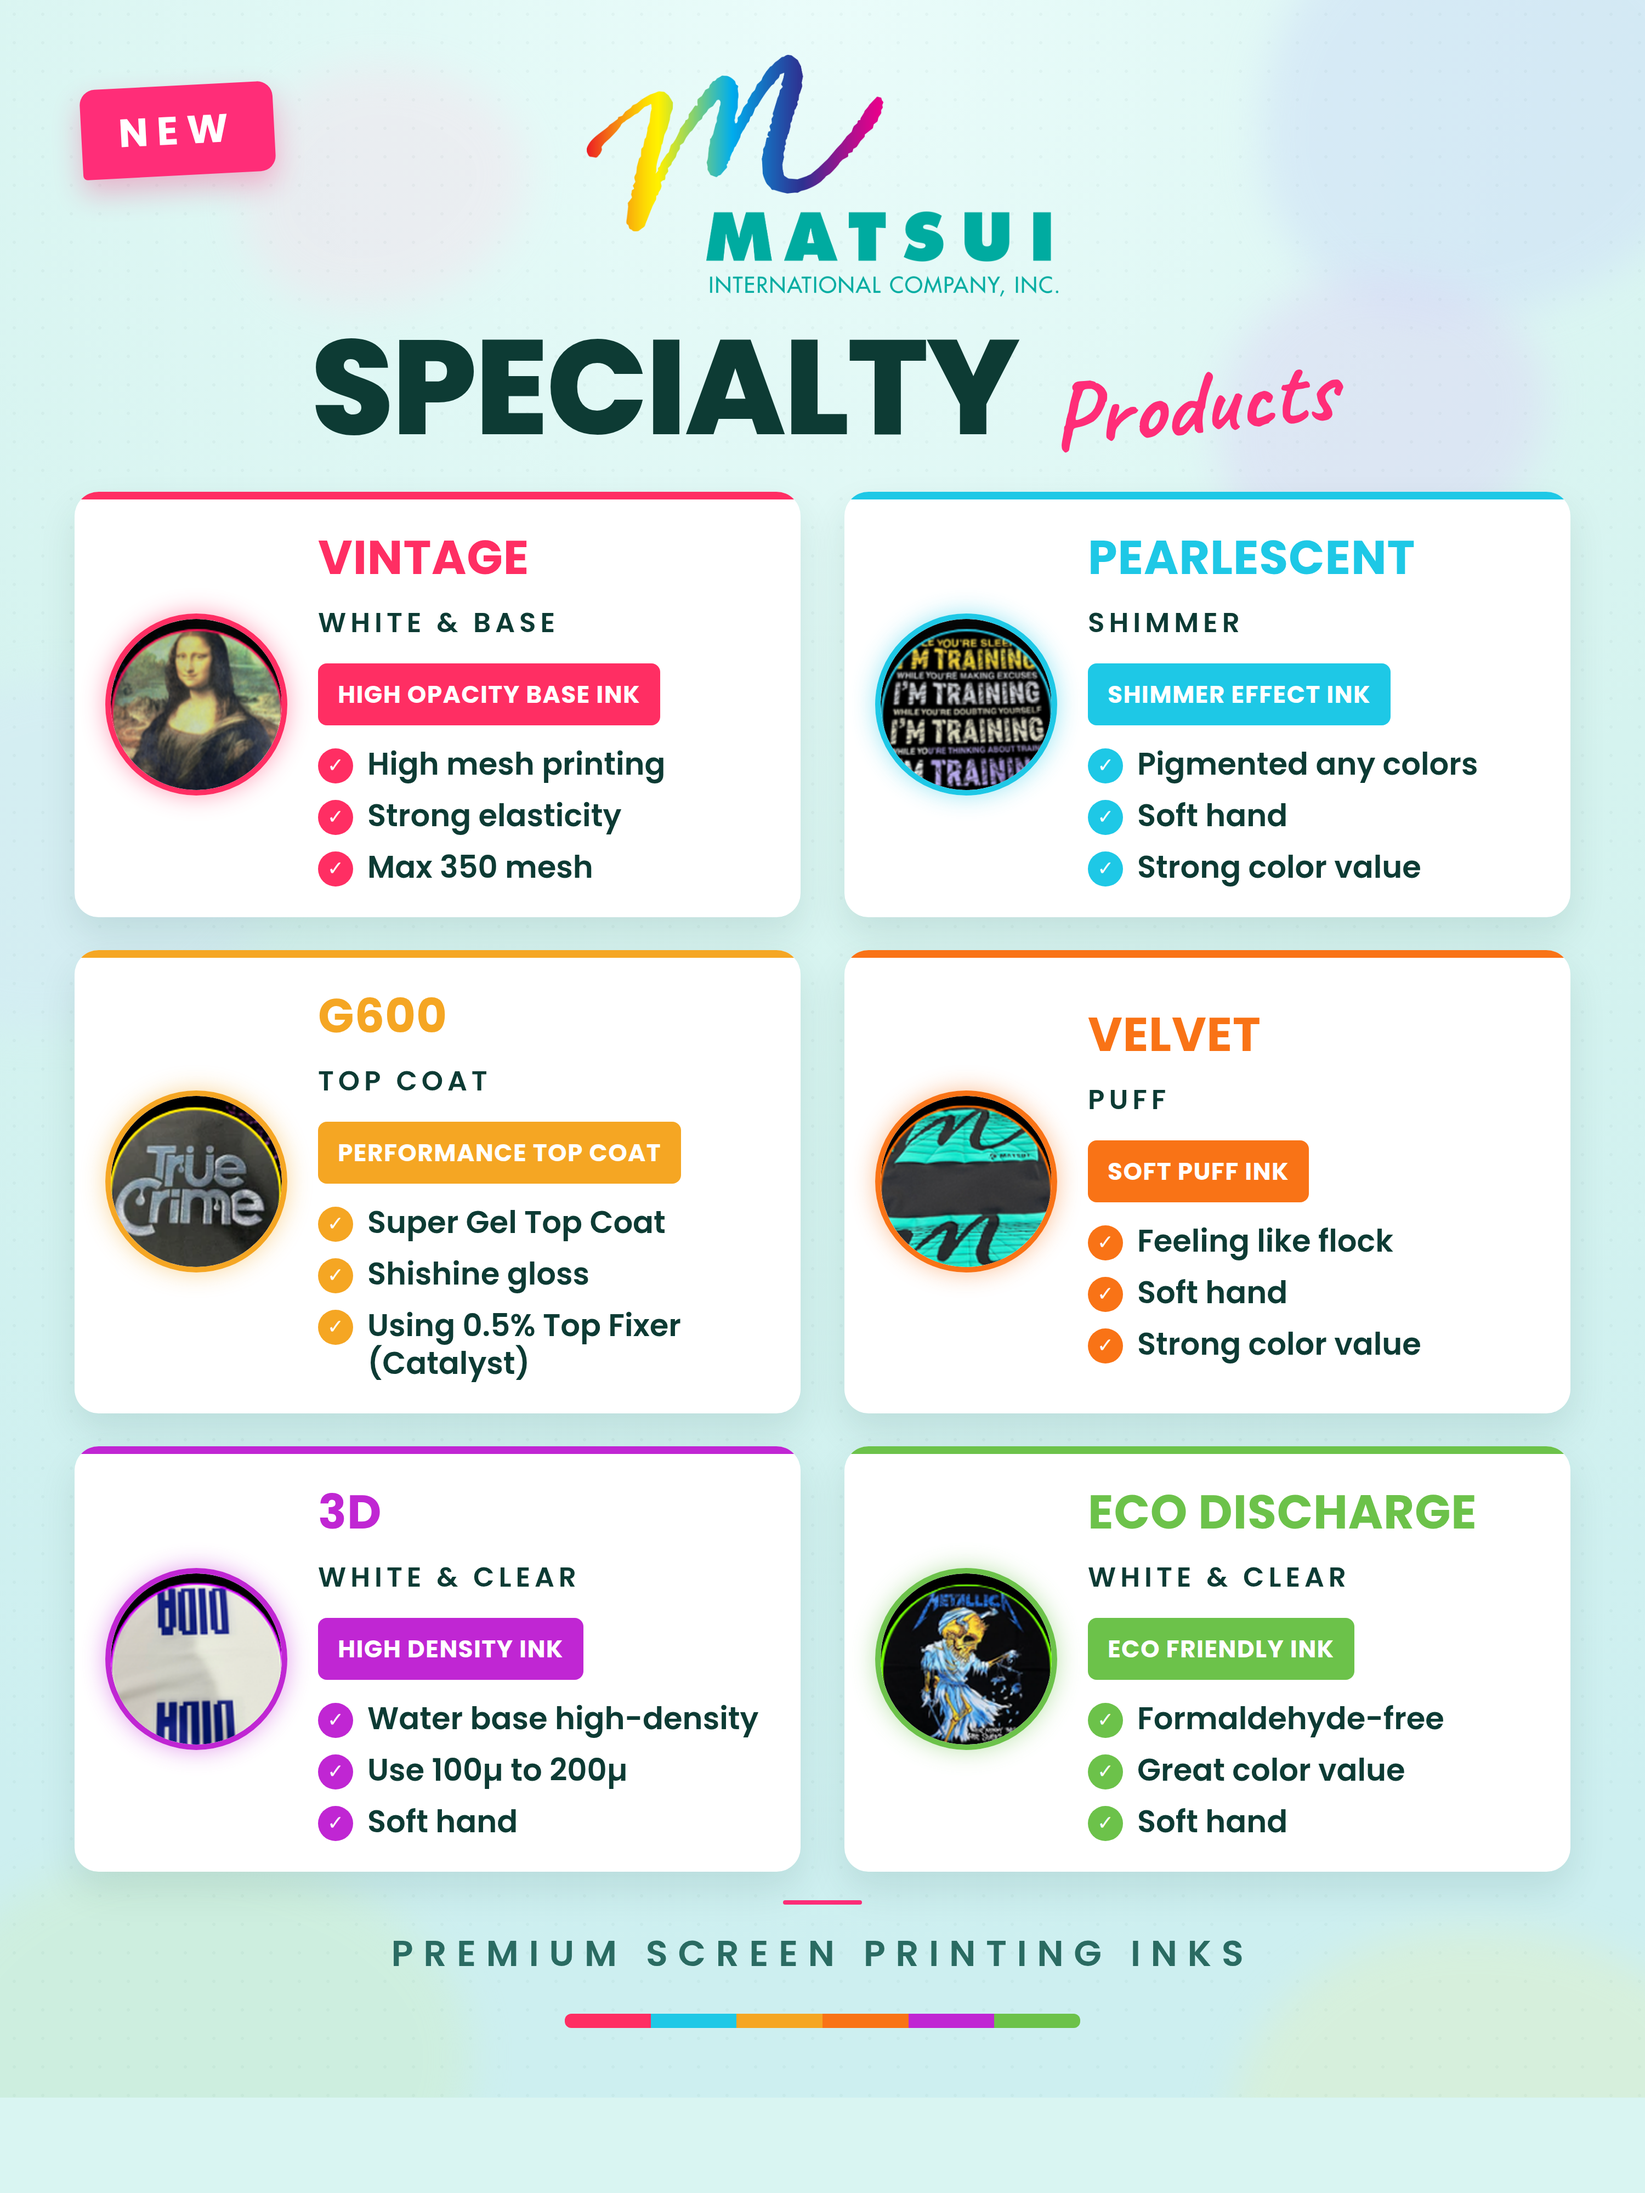
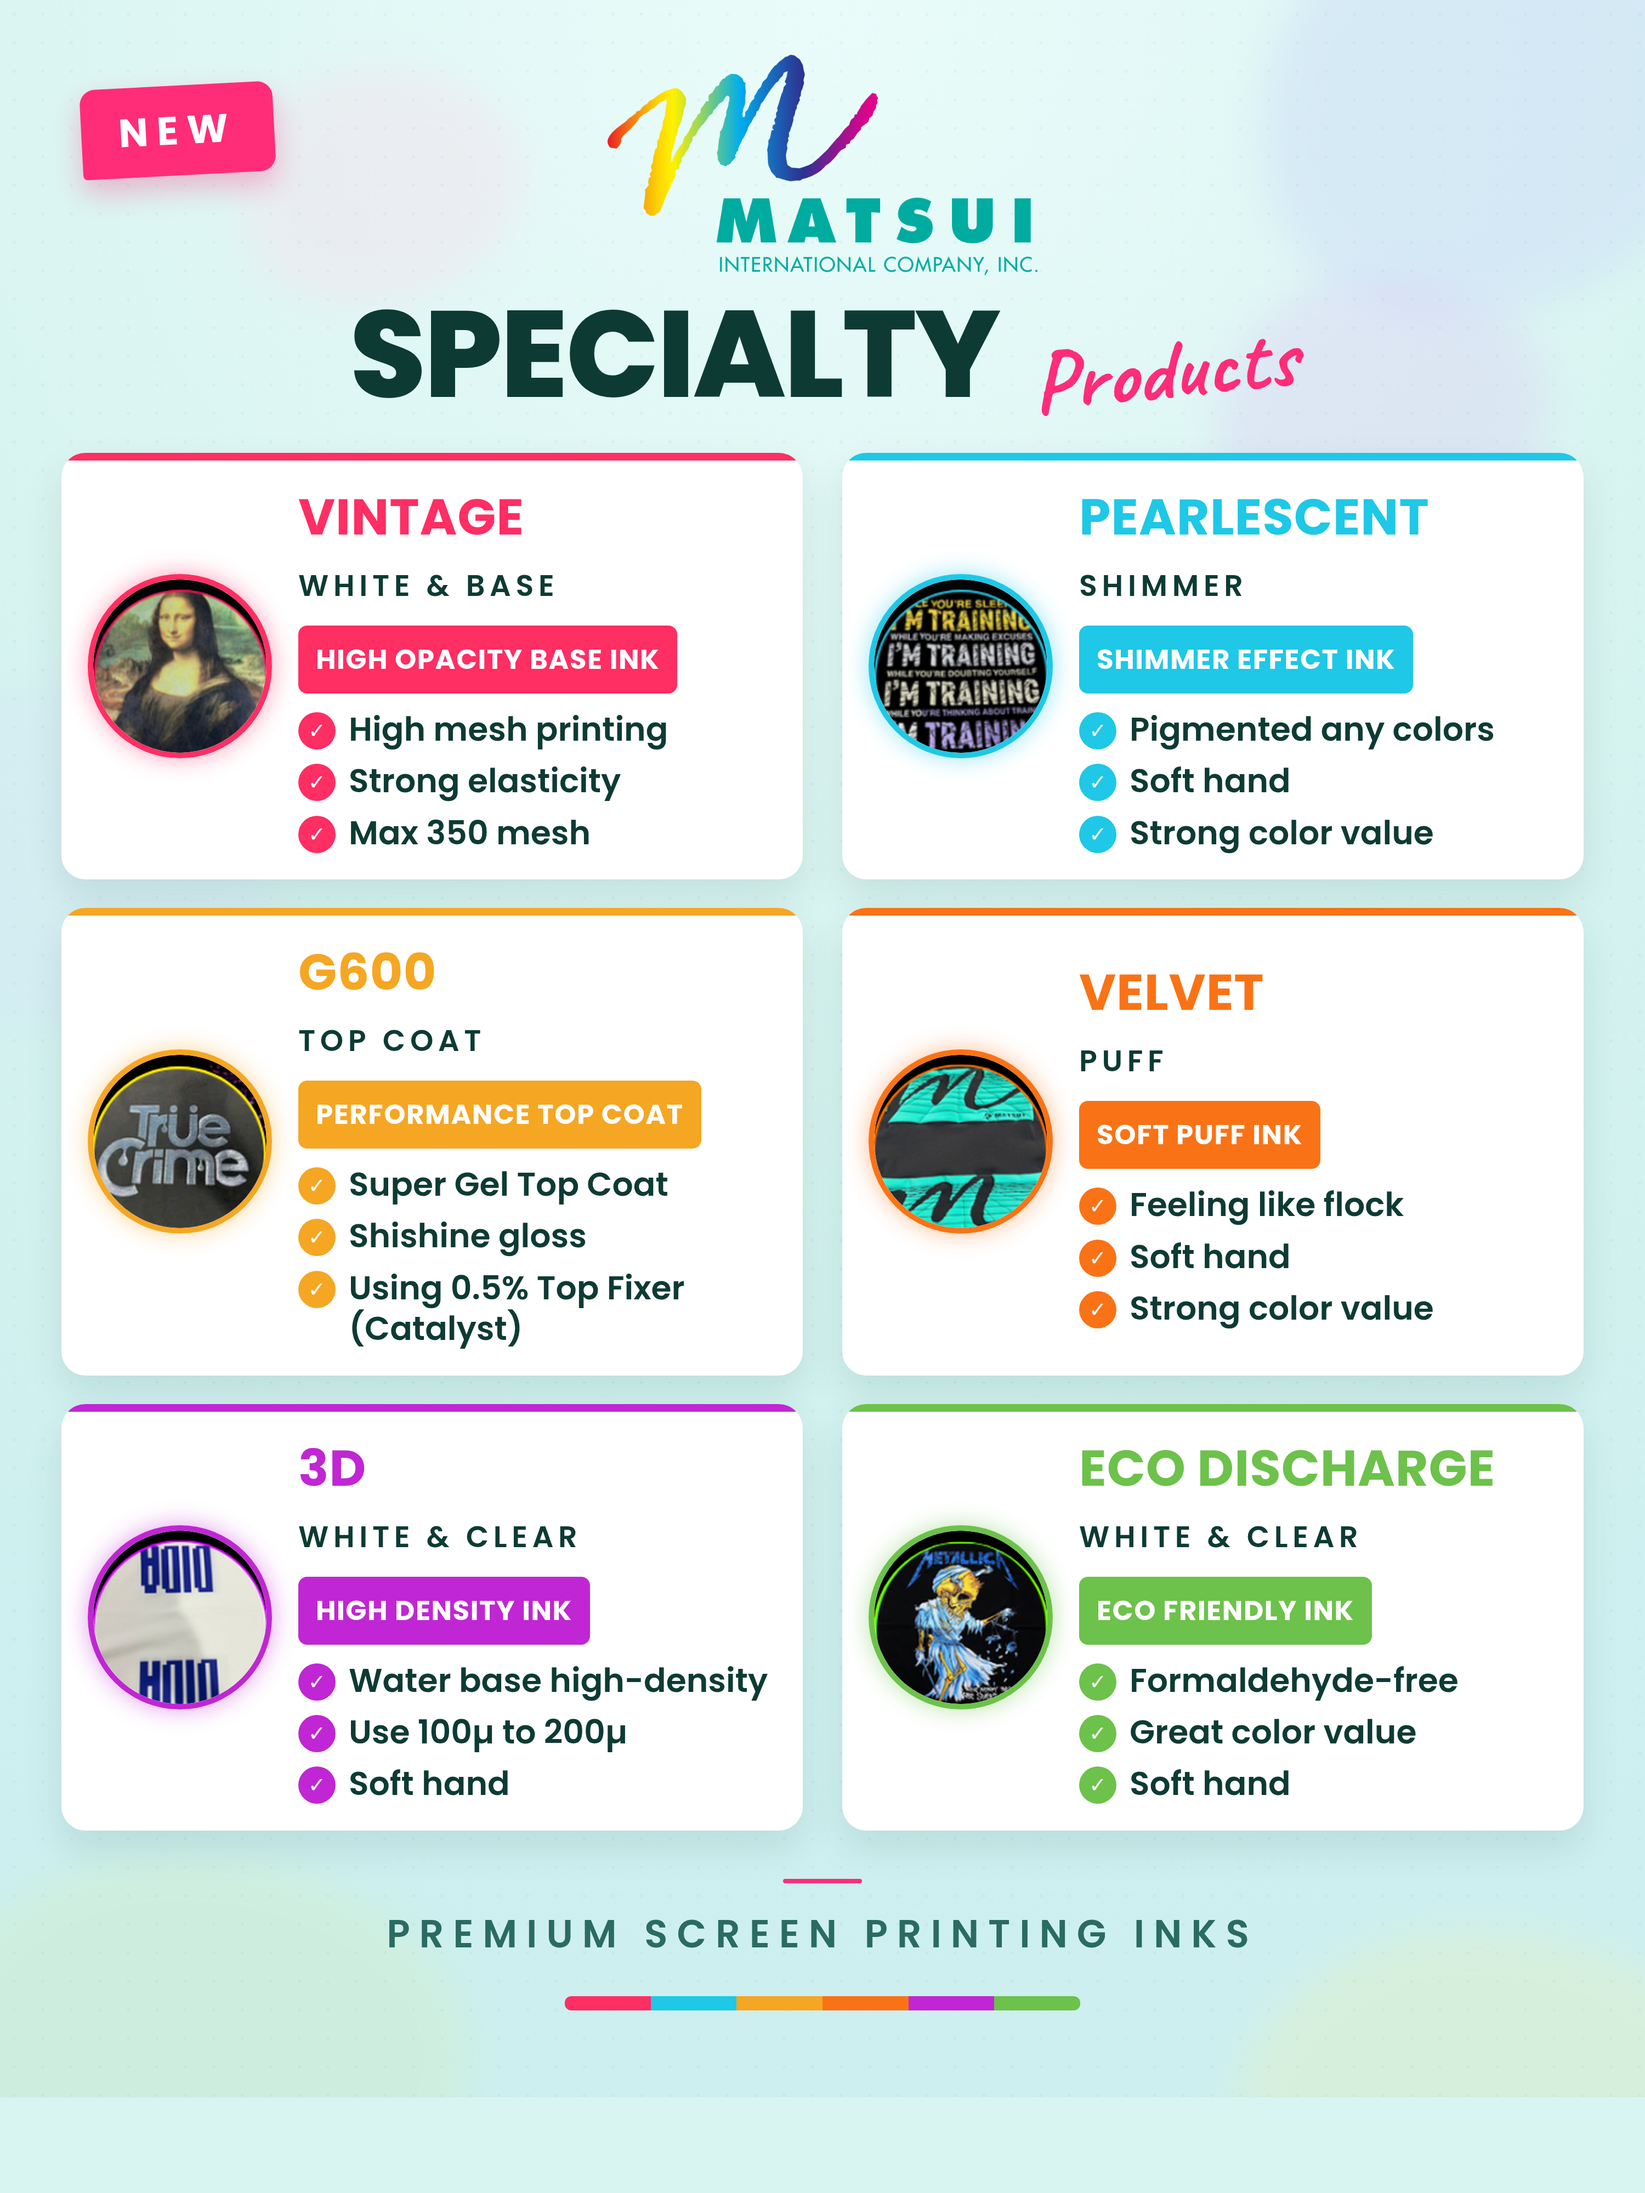
Increase the smallest poster text again
Third legibility pass, focused on the smallest elements — badges and
subtitles — with the headline and header spacing traded down to pay for it.

- Detail badges 22 -> 25px, subtitles 25 -> 27px, bullets 28 -> 30px,
  names 43 -> 46px, check icons 32 -> 34px
- Overview badges 25 -> 27px, subtitles 29 -> 31px, names 45 -> 47px,
  product circles 224 -> 232px
- Footer tagline 33 -> 35px; headline 122 -> 112px; cards widened via
  tighter grid padding and gaps so lines break less often

Claude-Session: https://claude.ai/code/session_01LZkeM3k2qiK2KzoJat9AUK

Changed region(s): [[0.031, 0.0312, 0.961, 0.9375]]

diff --git a/specialty-products-details.html b/specialty-products-details.html
@@ -7,46 +7,46 @@
 <style>
   .grid {
     grid-template-columns: repeat(2, 1fr);
-    gap: 30px 40px;
-    padding: 0 68px;
+    gap: 26px 36px;
+    padding: 0 56px;
     margin-top: 34px;
   }
   .card {
     display: flex;
     align-items: center;
-    gap: 28px;
-    padding: 28px 28px 28px 28px;
+    gap: 24px;
+    padding: 24px 24px 24px 24px;
   }
-  .shot { width: 166px; height: 166px; flex: 0 0 166px; }
-  .name { font-size: 43px; margin-bottom: 8px; }
-  .sub  { font-size: 25px; margin-bottom: 18px; }
-  .badge { font-size: 22px; padding: 12px 18px; letter-spacing: .03em; }
+  .shot { width: 168px; height: 168px; flex: 0 0 168px; }
+  .name { font-size: 46px; margin-bottom: 8px; }
+  .sub  { font-size: 27px; margin-bottom: 16px; }
+  .badge { font-size: 25px; padding: 12px 16px; letter-spacing: .03em; }
 
-  .points { margin-top: 18px; }
+  .points { margin-top: 14px; }
   .points li {
     list-style: none;
     display: flex;
     align-items: flex-start;
-    gap: 13px;
-    font-size: 28px;
+    gap: 12px;
+    font-size: 30px;
     font-weight: 600;
     line-height: 1.24;
     color: var(--ink);
   }
-  .points li + li { margin-top: 12px; }
+  .points li + li { margin-top: 10px; }
   .points .tick {
-    flex: 0 0 32px;
-    width: 32px; height: 32px;
+    flex: 0 0 34px;
+    width: 34px; height: 34px;
     margin-top: 3px;
     border-radius: 50%;
     background: var(--accent);
     color: #fff;
     font-family: "DejaVu Sans", sans-serif;
-    font-size: 18px;
-    line-height: 32px;
+    font-size: 19px;
+    line-height: 34px;
     text-align: center;
   }
-  .footer { margin-top: 26px; }
+  .footer { margin-top: 44px; }
 </style>
 </head>
 <body>
@@ -58,7 +58,7 @@
   <div class="content">
     <div class="new-chip">NEW</div>
 
-    <img class="logo" src="Matsui logo.png" width="430" alt="Matsui International Company, Inc.">
+    <img class="logo" src="Matsui logo.png" width="392" alt="Matsui International Company, Inc.">
 
     <div class="title">
       <h1>SPECIALTY</h1>

diff --git a/specialty-products-overview.html b/specialty-products-overview.html
@@ -7,15 +7,15 @@
 <style>
   .grid {
     grid-template-columns: repeat(3, 1fr);
-    gap: 36px;
-    padding: 0 76px;
+    gap: 30px;
+    padding: 0 64px;
     margin-top: 58px;
   }
-  .card { padding: 44px 20px 44px; text-align: center; }
-  .shot { width: 224px; height: 224px; margin: 0 auto 30px; }
-  .name { font-size: 45px; margin-bottom: 12px; white-space: nowrap; }
-  .sub  { font-size: 29px; margin-bottom: 30px; }
-  .badge { font-size: 25px; padding: 15px 18px; letter-spacing: .03em; }
+  .card { padding: 42px 16px 42px; text-align: center; }
+  .shot { width: 232px; height: 232px; margin: 0 auto 30px; }
+  .name { font-size: 47px; margin-bottom: 12px; white-space: nowrap; }
+  .sub  { font-size: 31px; margin-bottom: 30px; }
+  .badge { font-size: 27px; padding: 15px 16px; letter-spacing: .03em; }
   .footer { margin-top: 60px; }
 </style>
 </head>

diff --git a/assets/poster.css b/assets/poster.css
@@ -80,14 +80,14 @@ body {
 }
 
 .title {
-  margin-top: 22px;
+  margin-top: 16px;
   display: flex;
   align-items: center;
   justify-content: center;
   gap: 28px;
 }
 .title h1 {
-  font-size: 122px;
+  font-size: 112px;
   font-weight: 800;
   letter-spacing: -.015em;
   line-height: 1;
@@ -96,7 +96,7 @@ body {
 .title .script {
   font-family: "Caveat", cursive;
   font-weight: 700;
-  font-size: 86px;
+  font-size: 80px;
   color: var(--pink);
   transform: rotate(-6deg) translateY(14px);
 }
@@ -159,9 +159,9 @@ body {
   border-radius: 2px;
 }
 .footer .tag {
-  font-size: 33px;
+  font-size: 35px;
   font-weight: 600;
-  letter-spacing: .28em;
+  letter-spacing: .24em;
   color: var(--ink-soft);
   text-transform: uppercase;
 }
